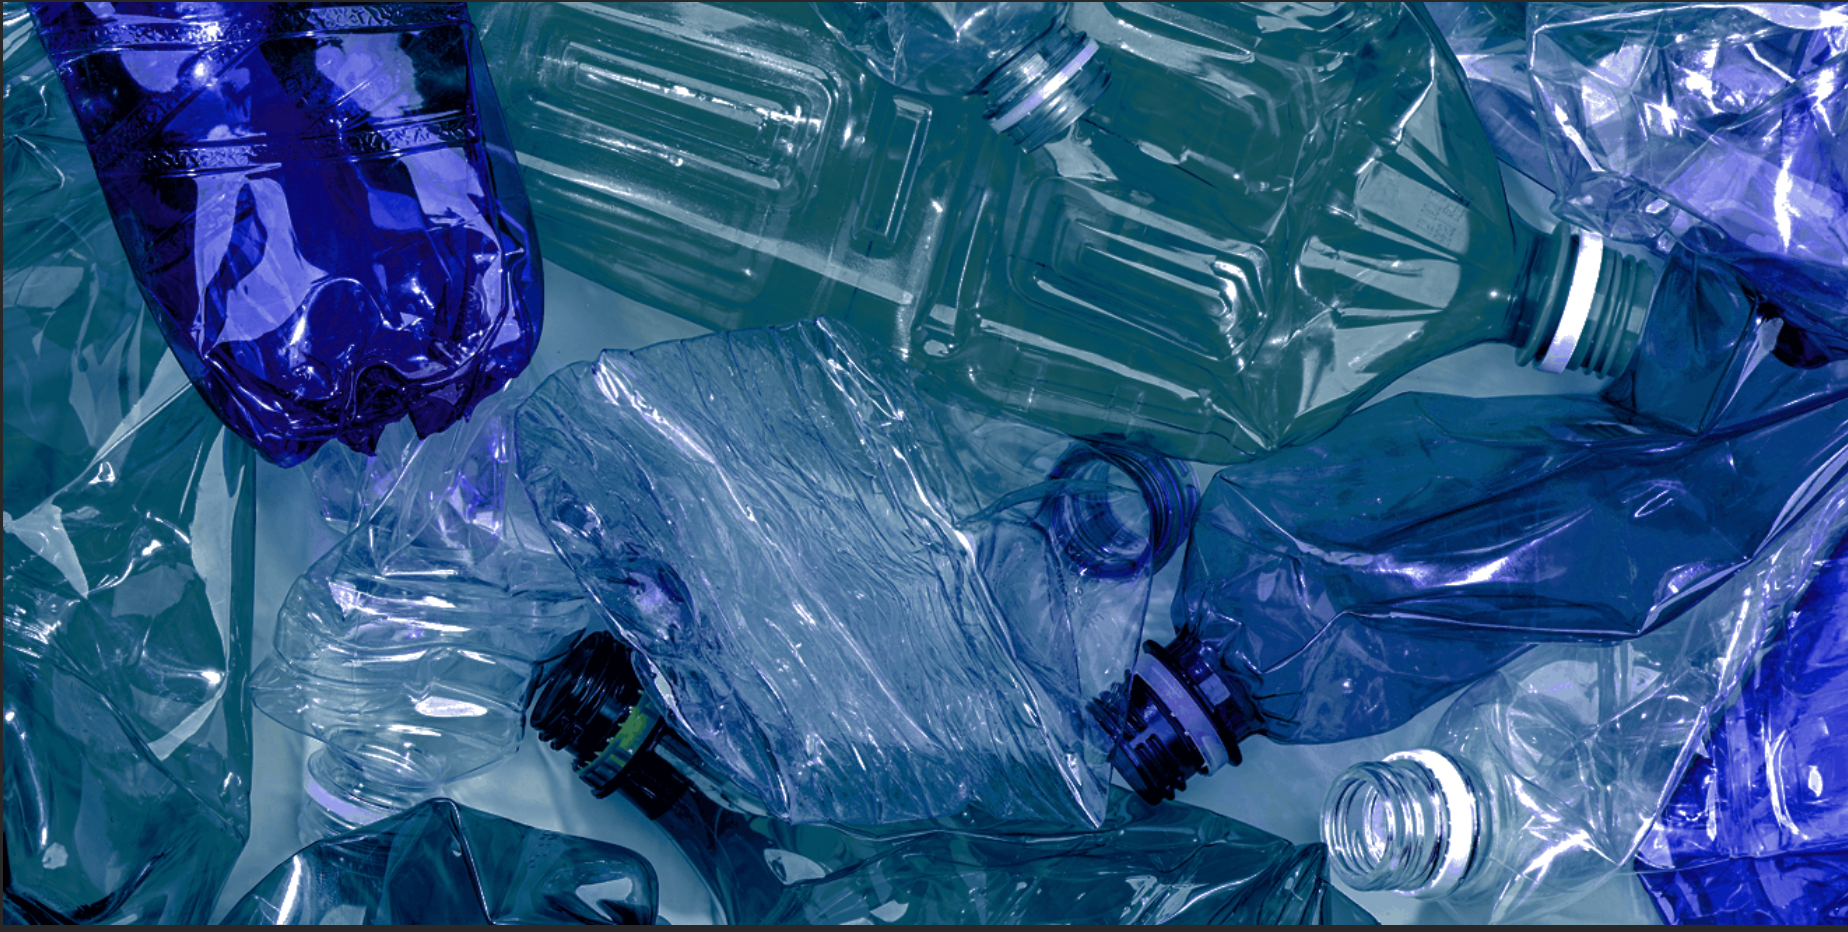
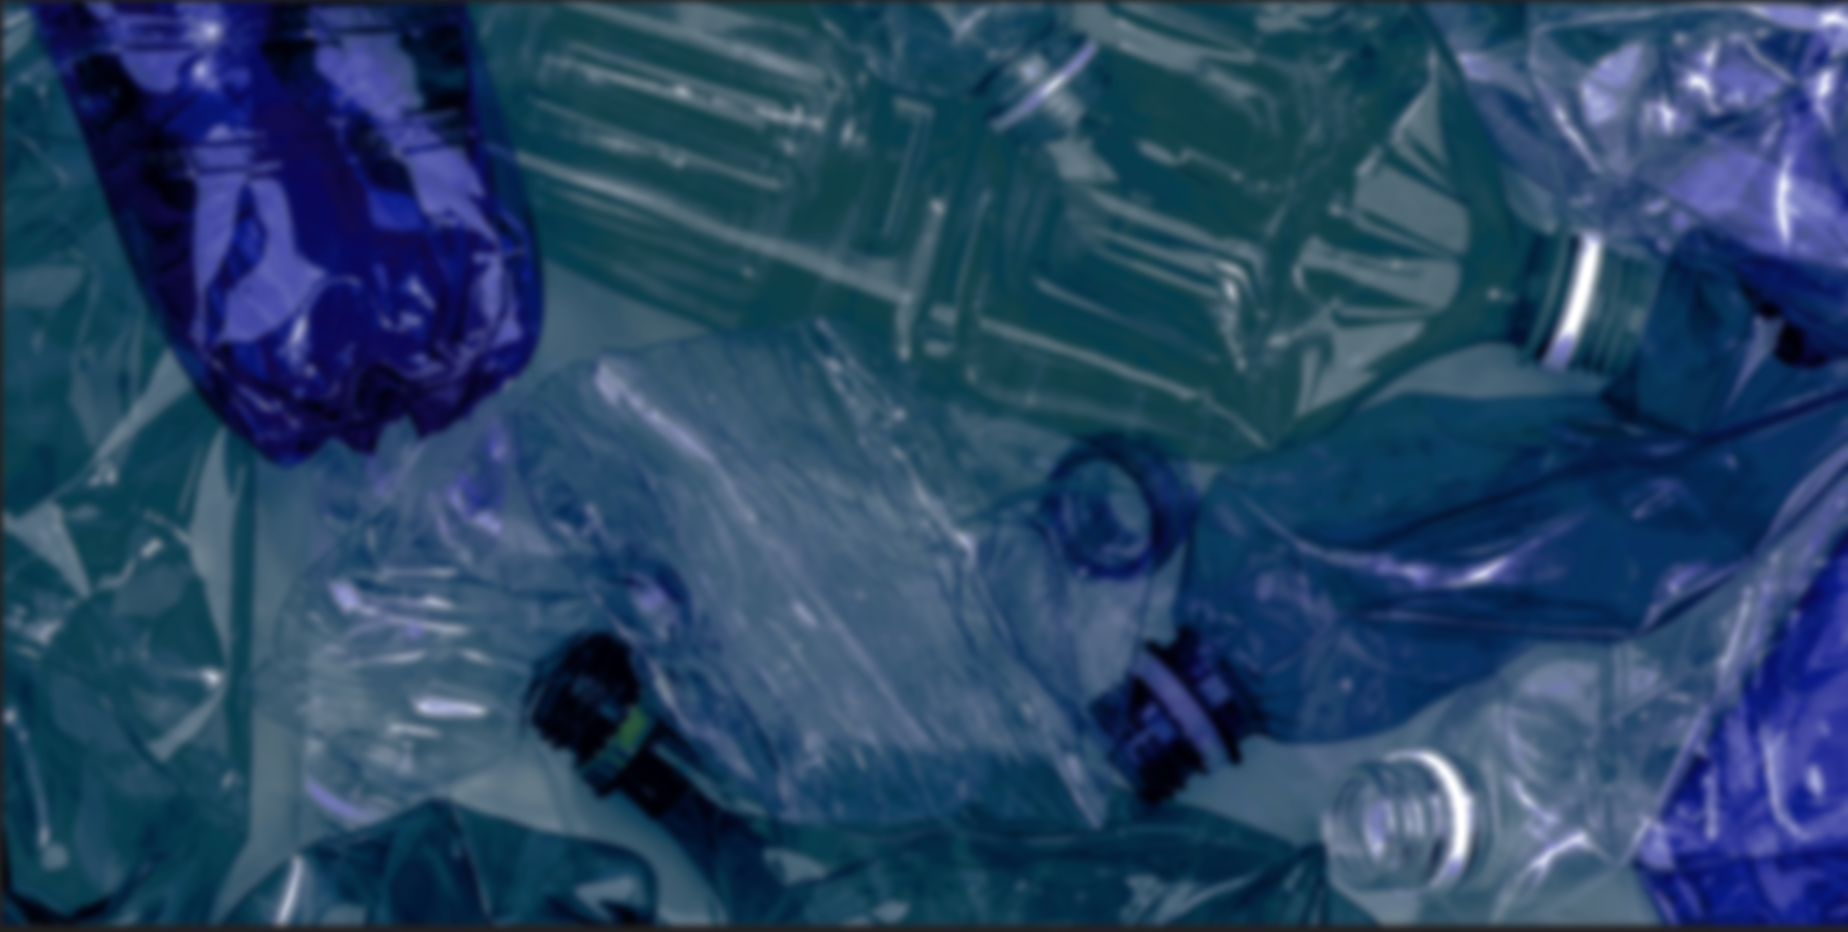
new pics

diff --git a/app.css b/app.css
@@ -104,7 +104,7 @@
 .mapDiv {
     /*background-color: rgb(3,92,150);*/
     color: rgb(230,230,230);
-    background-image: url("https://raw.githubusercontent.com/angles-d/HackGT8/main/plastic1.png");
+    background-image: url("https://raw.githubusercontent.com/angles-d/HackGT8/main/bottles1.png");
     min-height: 1000px;
 	background-position: center;
 	background-repeat: no-repeat;
